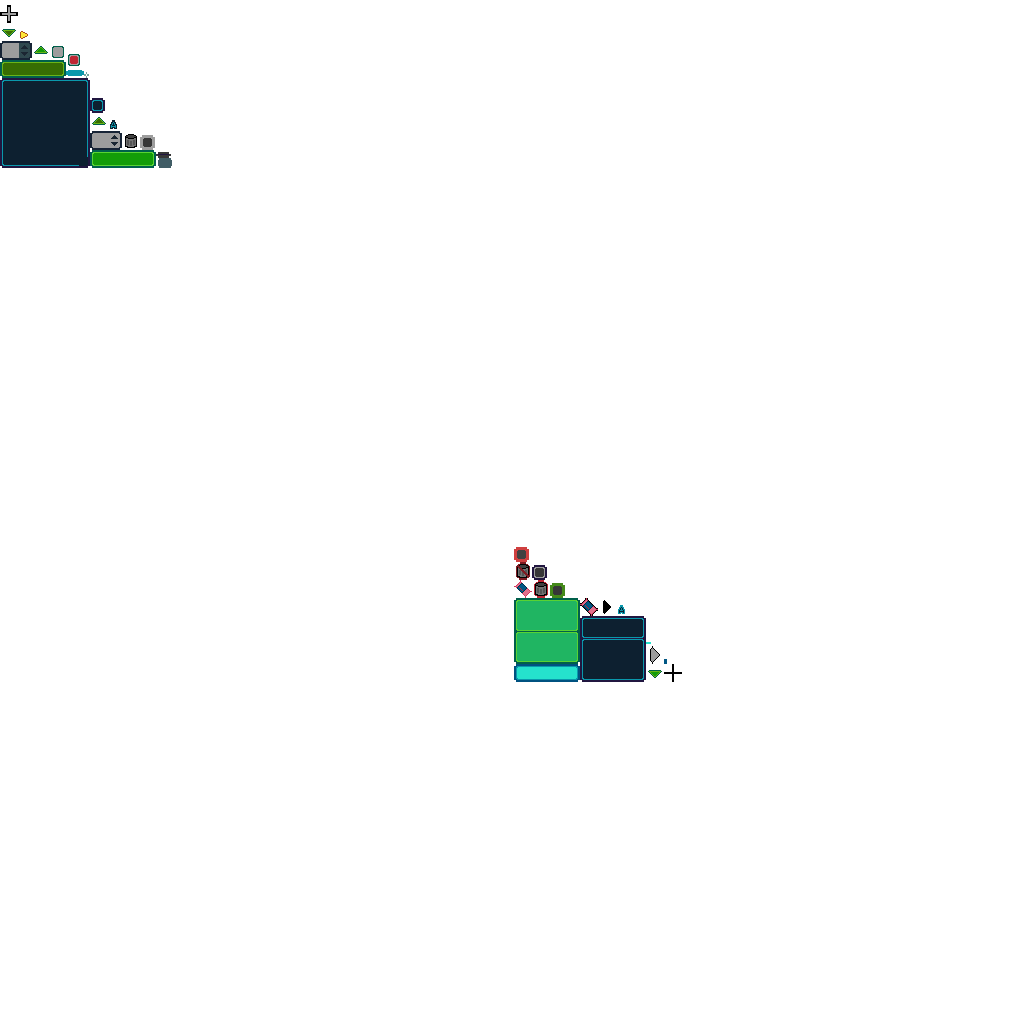
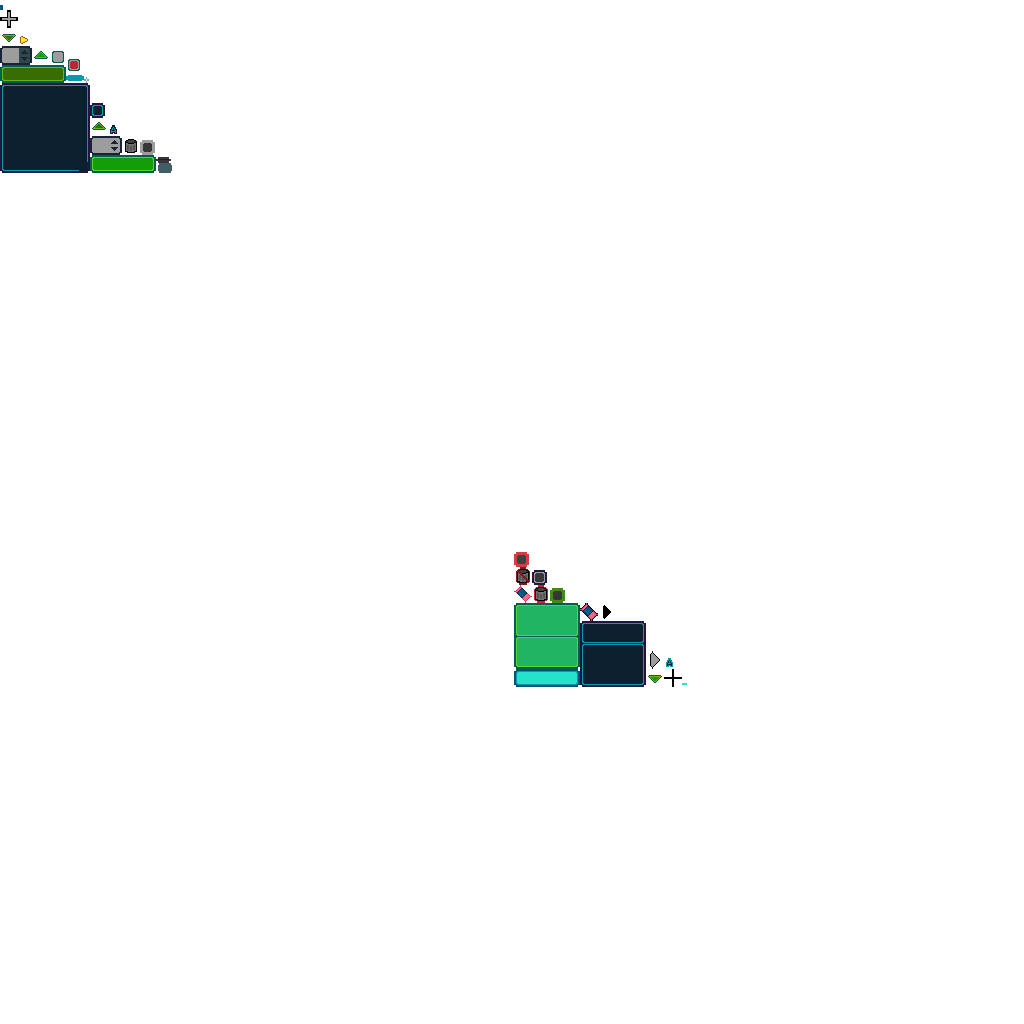
Editor Overhaul
Added Copy+Paste to editor
Added Prefabs to editor
Fixed Dragging Object Bug
Added Ctrl-A for objects
Slightly sped up Saving TkMaps

Changed region(s): [[0.5, 0.5312, 0.6562, 0.6875], [0.0, 0.0938, 0.1562, 0.1875], [0.0, 0.0, 0.0938, 0.0938]]

diff --git a/core/src/com/thecubecast/reengine/gamestates/EditorState.java b/core/src/com/thecubecast/reengine/gamestates/EditorState.java
@@ -20,6 +20,7 @@ import com.badlogic.gdx.scenes.scene2d.Stage;
 import com.badlogic.gdx.scenes.scene2d.ui.*;
 import com.badlogic.gdx.scenes.scene2d.utils.ChangeListener;
 import com.badlogic.gdx.scenes.scene2d.utils.ClickListener;
+import com.badlogic.gdx.scenes.scene2d.utils.Drawable;
 import com.badlogic.gdx.scenes.scene2d.utils.TextureRegionDrawable;
 import com.badlogic.gdx.utils.viewport.FitViewport;
 import com.google.gson.JsonArray;
@@ -62,6 +63,8 @@ public class EditorState extends GameState {
     }
 
     private selection selected = selection.None;
+
+    private Interactable Prefab = null;
 
     private boolean SelectionDragging = false;
     private Vector2[] SelectedArea;
@@ -174,7 +177,7 @@ public class EditorState extends GameState {
             if (selected.equals(selection.Object)) {
                 if (Entities.get(i).getHitbox().contains(new Vector3(pos.x, pos.y, 2))) {
                     //Entities.get(i).setDebugView(true);
-                    if (SelectedArea == null && Gdx.input.isTouched() && Gdx.input.isButtonPressed(Input.Buttons.LEFT)) {
+                    if (SelectedArea == null && Gdx.input.isTouched() && Gdx.input.isButtonPressed(Input.Buttons.LEFT) && Prefab == null && !DraggingObject) {
                         if (Gdx.input.isKeyPressed(Input.Keys.CONTROL_LEFT)) {
                             SelectedObjects.add(Entities.get(i));
                             Entities.get(i).setDebugView(true);
@@ -350,6 +353,12 @@ public class EditorState extends GameState {
         //Draws things on the screen, and not the world positions
         g.setProjectionMatrix(GuiCam.combined);
         g.begin();
+        if (Prefab != null) {
+            Vector3 pos312 = new Vector3(Gdx.input.getX(), Gdx.input.getY(), 0);
+            GuiCam.unproject(pos312);
+            Prefab.setPosition(pos312.x - (Prefab.getSize().x/2),pos312.y - (Prefab.getSize().y/2),0);
+            Prefab.draw(g, Time);
+        }
         g.end();
 
         UIStage.getViewport().update(gsm.UIWidth, gsm.UIHeight, true);
@@ -368,19 +377,26 @@ public class EditorState extends GameState {
             SaveMap(SaveNameText);
         }
 
+        if (selected.equals(selection.Object) && Prefab == null && Gdx.input.isKeyPressed(Input.Keys.CONTROL_LEFT) && Gdx.input.isKeyJustPressed(Input.Keys.A)) {
+            SelectedObjects.clear();
+            SelectedObjects.addAll(Entities);
+
+            for (int i = 0; i < SelectedObjects.size(); i++) {
+                SelectedObjects.get(i).setDebugView(true);
+            }
+        }
+
         if (Gdx.input.isKeyPressed(Input.Keys.CONTROL_LEFT) && Gdx.input.isKeyJustPressed(Input.Keys.C)) {
-            System.out.println("Copied");
-            //Copied_Objects.clear();
-            //Copied_Objects.addAll(SelectedObjects);
+            //System.out.println("Copied");
+            Copied_Objects.clear();
+            Copied_Objects.addAll(SelectedObjects);
         }
 
         if (Gdx.input.isKeyPressed(Input.Keys.CONTROL_LEFT) && Gdx.input.isKeyJustPressed(Input.Keys.V)) {
-            System.out.println("Pasted");
-            /*
-            //Get the middle of the screen position in the world coords
-            Vector3 camMiddle = new Vector3(camera.position.x + camera.viewportWidth, camera.position.y + camera.viewportHeight, 0);
+            //System.out.println("Pasted");
 
-            System.out.println(camMiddle);
+            //Get the middle of the screen position in the world coords
+            Vector3 camMiddle = new Vector3(camera.position.x, camera.position.y, 0);
 
             //calculate the average location of all the copied entities
             Vector3 AveragePos = new Vector3();
@@ -391,34 +407,34 @@ public class EditorState extends GameState {
             AveragePos.x = AveragePos.x/Copied_Objects.size();
             AveragePos.y = AveragePos.y/Copied_Objects.size();
             AveragePos.z = AveragePos.z/Copied_Objects.size();
-            System.out.println(AveragePos);
 
             //Calculate offset
             camMiddle.sub(AveragePos);
-            System.out.println(camMiddle);
 
             //Add the change from average location of copied, to location of middle screen
             for (int i = 0; i < Copied_Objects.size(); i++) {
-                WorldObject temp = Copied_Objects.get(i).getClass().newInstance();
+                Interactable temp = ((Interactable)Copied_Objects.get(i)).CreateNew();
 
                 temp.setPosition(temp.getPosition().x + camMiddle.x, temp.getPosition().y + camMiddle.y, AveragePos.z);
                 Entities.add(temp);
                 SelectedObjects.add(temp);
                 temp.setDebugView(true);
-            }*/
+            }
         }
 
         if (Gdx.input.isKeyJustPressed(Input.Keys.PLUS) || Gdx.input.isKeyJustPressed(Input.Keys.EQUALS) && UIStage.getKeyboardFocus() == null) {
             if (!OverHud)
                 gsm.setWorldScale(gsm.Scale + 1);
-            System.out.println(gsm.Scale);
+            if (gsm.Debug)
+                System.out.println(gsm.Scale);
         }
         if (Gdx.input.isKeyJustPressed(Input.Keys.MINUS) && UIStage.getKeyboardFocus() == null) {
             if (!OverHud) {
                 if (gsm.Scale - 1 > 0)
                     gsm.setWorldScale(gsm.Scale - 1);
             }
-            System.out.println(gsm.Scale);
+            if (gsm.Debug)
+                System.out.println(gsm.Scale);
         }
 
         if (Gdx.input.isKeyJustPressed(Input.Keys.FORWARD_DEL) || Gdx.input.isKeyJustPressed(Input.Keys.DEL) && UIStage.getKeyboardFocus() == null) {
@@ -427,6 +443,22 @@ public class EditorState extends GameState {
                     Entities.remove(SelectedObjects.get(i));
                 }
                 SelectedObjects.clear();
+            }
+        }
+
+        if (Gdx.input.justTouched() && Gdx.input.isButtonPressed(Input.Buttons.LEFT)) { //KeyHit
+            Vector3 pos = new Vector3(Gdx.input.getX(), Gdx.input.getY(), 0);
+            camera.unproject(pos);
+
+            if (!OverHud) {
+                if (selected.equals(selection.Object)) {
+                    if (Prefab != null) {
+                        Vector3 pos312 = new Vector3(Gdx.input.getX(), Gdx.input.getY(), 0);
+                        camera.unproject(pos312);
+                        Prefab.setPosition(pos312.x - (Prefab.getSize().x / 2), pos312.y - (Prefab.getSize().y / 2), 0);
+                        Entities.add(Prefab.CreateNew());
+                    }
+                }
             }
         }
 
@@ -453,40 +485,40 @@ public class EditorState extends GameState {
                     } else {
                         tempshitgiggle.ClearCollision(((int) pos.x / 16), ((int) pos.y / 16));
                     }
+                } else if (selected.equals(selection.Object) && Prefab == null) {
+                    if (SelectionDragging && SelectedObjects.size() > 0) {
+                        if (SelectedObjects.get(0).getHitbox().contains(new Vector3(pos.x, pos.y, 2)) && SelectedArea == null) {
+                            //This is where your gonna move them around
+                            if (!DraggingObject) {
+                                draggingOffset[0] = (int) SelectedObjects.get(0).getPosition().x - (int) pos.x;
+                                draggingOffset[1] = (int) SelectedObjects.get(0).getPosition().y - (int) pos.y;
+                            }
+                            DraggingObject = true;
+
+                        }
+                    }
+
+                    if (DraggingObject) {
+                        for (int i = 0; i < SelectedObjects.size(); i++) {
+                            SelectedObjects.get(i).setPosition(pos.x + draggingOffset[0], pos.y + draggingOffset[1], SelectedObjects.get(i).getPosition().z);
+                            HiddenButtonTriggeresLoading.init(0,0);
+                        }
+                    }
+
+                    if (SelectionDragging && !DraggingObject) {
+
+                        if (SelectedArea == null) {
+                            SelectedArea = new Vector2[]{new Vector2(Gdx.input.getX(), Gdx.input.getY()), new Vector2(0, 0)};
+                        }
+
+                        if (SelectedArea != null) {
+                            SelectedArea[1].set(Gdx.input.getX(), Gdx.input.getY());
+                        }
+                    } else {
+                        SelectedArea = null;
+                    }
                 } else if (selected.equals(selection.None)) {
 
-                }
-
-                if (SelectionDragging && SelectedObjects.size() > 0) {
-                    if (SelectedObjects.get(0).getHitbox().contains(new Vector3(pos.x, pos.y, 2)) && SelectedArea == null) {
-                        //This is where your gonna move them around
-                        if (!DraggingObject) {
-                            draggingOffset[0] = (int) SelectedObjects.get(0).getPosition().x - (int) pos.x;
-                            draggingOffset[1] = (int) SelectedObjects.get(0).getPosition().y - (int) pos.y;
-                        }
-                        DraggingObject = true;
-
-                    }
-                }
-
-                if (DraggingObject) {
-                    for (int i = 0; i < SelectedObjects.size(); i++) {
-                        SelectedObjects.get(i).setPosition(pos.x + draggingOffset[0], pos.y + draggingOffset[1], SelectedObjects.get(i).getPosition().z);
-                        HiddenButtonTriggeresLoading.init(0,0);
-                    }
-                }
-
-                if (SelectionDragging && !DraggingObject) {
-
-                    if (SelectedArea == null) {
-                        SelectedArea = new Vector2[]{new Vector2(Gdx.input.getX(), Gdx.input.getY()), new Vector2(0, 0)};
-                    }
-
-                    if (SelectedArea != null) {
-                        SelectedArea[1].set(Gdx.input.getX(), Gdx.input.getY());
-                    }
-                } else {
-                    SelectedArea = null;
                 }
             }
 
@@ -521,7 +553,13 @@ public class EditorState extends GameState {
         if (Gdx.input.isKeyJustPressed(Input.Keys.ESCAPE)) {
             if (UIStage.getKeyboardFocus() != null) {
                 UIStage.setKeyboardFocus(null);
-            } else {
+            } else if (Prefab != null) {
+                if (!OverHud) {
+                    if (selected.equals(selection.Object)) {
+                        Prefab = null;
+                    }
+                }
+            }else {
                 if (gsm.UI.Visible) {
                     gsm.UI.setVisable(!gsm.UI.Visible);
                     UIStage.setViewport(new FitViewport(gsm.UIWidth, gsm.UIHeight));
@@ -921,22 +959,79 @@ public class EditorState extends GameState {
             JsonParser jsonReaderthing = new JsonParser();
             JsonObject MapObject = jsonReaderthing.parse(Gdx.files.internal("Saves/" + gsm.SaveSelected + ".ecube").readString()).getAsJsonObject();
             JsonArray MapPrefabs = MapObject.getAsJsonArray("Objects");
-            System.out.println("Size: " + MapPrefabs.size());
+            //System.out.println("Size: " + MapPrefabs.size());
 
-            for (int i = 0; i < MapPrefabs.size(); i++) {
+            for (int i = 1; i < MapPrefabs.size()+1; i++) {
 
                 int tempi = i - 1;
-                JsonObject temp = MapPrefabs.get(i).getAsJsonObject();
-                ImageButton tempimage = new ImageButton(new TextureRegionDrawable(new TextureRegion(new Texture(Gdx.files.internal(temp.get("TexLocation").getAsString())))));
+                JsonObject tempObject = MapPrefabs.get(tempi).getAsJsonObject();
+                ImageButton tempimage = new ImageButton(new TextureRegionDrawable(new TextureRegion(new Texture(Gdx.files.internal(tempObject.get("TexLocation").getAsString())))));
                 tempimage.addListener(new ClickListener() {
                     @Override
                     public void clicked(InputEvent event, float x, float y) {
-                        //TileIDSelected = tempi;
+
+                        String Name = tempObject.get("Name").getAsString();
+                        String Description = tempObject.get("Description").getAsString();
+                        int W = tempObject.get("Width").getAsInt();
+                        int H = tempObject.get("Height").getAsInt();
+                        int D = tempObject.get("Depth").getAsInt();
+                        int OffsetX = tempObject.get("WidthOffset").getAsInt();
+                        int OffsetY = tempObject.get("HeightOffset").getAsInt();
+                        int OffsetZ = tempObject.get("DepthOffset").getAsInt();
+                        String tempImgLoc = tempObject.get("TexLocation").getAsString();
+                        String RawEvents = tempObject.get("Event").getAsString();
+                        Trigger.TriggerType TriggerType = Trigger.TriggerType.None;
+                        WorldObject.type Type;
+                        boolean Collidable = false;
+                        if (tempObject.get("Physics").getAsString().equals("Static")) {
+                            Type = WorldObject.type.Static;
+                            if (tempObject.get("Collidable").getAsBoolean())
+                                Collidable = true;
+                        } else if (tempObject.get("Physics").getAsString().equals("Dynamic")) {
+                            Type = WorldObject.type.Dynamic;
+                        } else {
+                            Type = WorldObject.type.Static;
+                        }
+
+                        if (tempObject.get("TriggerType").getAsString().equals("OnEntry")) {
+                            TriggerType = Trigger.TriggerType.OnEntry;
+                        } else if (tempObject.get("TriggerType").getAsString().equals("OnTrigger")) {
+                            TriggerType = Trigger.TriggerType.OnTrigger;
+                        } else if (tempObject.get("TriggerType").getAsString().equals("OnExit")) {
+                            TriggerType = Trigger.TriggerType.OnExit;
+                        } else if (tempObject.get("TriggerType").getAsString().equals("OnInteract")) {
+                            TriggerType = Trigger.TriggerType.OnInteract;
+                        } else if (tempObject.get("TriggerType").getAsString().equals("OnClick")) {
+                            TriggerType = Trigger.TriggerType.OnClick;
+                        } else if (tempObject.get("TriggerType").getAsString().equals("OnAttack")) {
+                            TriggerType = Trigger.TriggerType.OnAttack;
+                        }
+
+                        Interactable tempObj = new Interactable(0,0,0, new Vector3(W, H, D), Type, Collidable, RawEvents, TriggerType);
+                        tempObj.setTexLocation(tempImgLoc);
+                        tempObj.Name = Name;
+                        tempObj.Description = Description;
+
+                        tempObj.setHitboxOffset(new Vector3(OffsetX, OffsetY, OffsetZ));
+
+                        Prefab = tempObj;
                     }
                 });
-                ObjectEditorPrefab.add(tempimage);
+                Table Container = new Table(skin) {
+                    @Override
+                    public void act(float delta) {
+                        super.act(delta);
+                        if (tempimage.isOver()) {
+                            this.setBackground("Outline");
+                        } else {
+                            this.setBackground("Blank");
+                        }
+                    }
+                };
+                Container.add(tempimage).pad(-2);
+                ObjectEditorPrefab.add(Container);
                 if (i % 6 == 0) {
-                    TilesList.row();
+                    ObjectEditorPrefab.row();
                 }
             }
         }
@@ -1333,6 +1428,7 @@ public class EditorState extends GameState {
         BoxStuff.add(RecipeScroll).height(100).padTop(5);
 
         Table Title = new Table(skin);
+        //Title.add(new Label("Objects", skin));
         Title.add(Hide);
         Title.setBackground("Window_red");
 
@@ -1393,6 +1489,8 @@ public class EditorState extends GameState {
         Path path = Paths.get("Saves", Savename + ".cube");
         ArrayList<String> lines = new ArrayList<String>();
         lines.add(tempshitgiggle.SerializeMap(Entities));
+
+        System.out.println("Serialization Took " + ((System.nanoTime() - Started)/1000000000.0) + " seconds to complete");
 
         try {
             Files.deleteIfExists(path);

diff --git a/core/src/com/thecubecast/reengine/data/tkmap/TkMap.java b/core/src/com/thecubecast/reengine/data/tkmap/TkMap.java
@@ -424,13 +424,13 @@ public class TkMap {
         for (int y = this.getHeight() - 1; y >= 0; y--) {
             for (int x = 0; x < this.getWidth(); x++) {
                 if (x == 0) {
-                    GroundTiles += "" + this.Ground[x][y];
+                    GroundTiles = GroundTiles.concat("" + this.Ground[x][y]);
                 } else {
-                    GroundTiles += "," + this.Ground[x][y];
+                    GroundTiles = GroundTiles.concat("," + this.Ground[x][y]);
                 }
             }
             if (y != 0) {
-                GroundTiles += "\n";
+                GroundTiles = GroundTiles.concat("\n");
             }
         }
         GroundLayer.addProperty("text", GroundTiles);
@@ -445,13 +445,13 @@ public class TkMap {
         for (int y = this.getHeight() - 1; y >= 0; y--) {
             for (int x = 0; x < this.getWidth(); x++) {
                 if (x == 0) {
-                    ForegroundTiles += "" + this.Foreground[x][y];
+                    ForegroundTiles = ForegroundTiles.concat("" + this.Foreground[x][y]);
                 } else {
-                    ForegroundTiles += "," + this.Foreground[x][y];
+                    ForegroundTiles =ForegroundTiles.concat("," + this.Foreground[x][y]);
                 }
             }
             if (y != 0) {
-                ForegroundTiles += "\n";
+                ForegroundTiles =ForegroundTiles.concat("\n");
             }
         }
         ForegroundLayer.addProperty("text", ForegroundTiles);
@@ -465,13 +465,13 @@ public class TkMap {
         for (int y = this.getHeight() - 1; y >= 0; y--) {
             for (int x = 0; x < this.getWidth(); x++) {
                 if (this.Collision[x][y]) {
-                    CollisionTiles += "1";
+                    CollisionTiles = CollisionTiles.concat("1");
                 } else {
-                    CollisionTiles += "0";
+                    CollisionTiles = CollisionTiles.concat("0");
                 }
             }
             if (y != 0) {
-                CollisionTiles += "\n";
+                CollisionTiles = CollisionTiles.concat("\n");
             }
         }
         CollisionLayer.addProperty("text", CollisionTiles);

diff --git a/core/src/com/thecubecast/reengine/worldobjects/Interactable.java b/core/src/com/thecubecast/reengine/worldobjects/Interactable.java
@@ -87,4 +87,16 @@ public class Interactable extends Trigger {
         else
             Image = new Texture(Gdx.files.internal(TexLocation));
     }
+
+    public Interactable CreateNew() {
+
+        Interactable tempObj = new Interactable((int) this.getPosition().x, (int) this.getPosition().y, (int) this.getPosition().z, this.getSize(), this.getState(), this.isCollidable(), this.RawCommands, this.getActivationType());
+        tempObj.setTexLocation(this.getTexLocation());
+        tempObj.Name = this.Name;
+        tempObj.Description = this.Description;
+
+        tempObj.setHitboxOffset(this.getHitboxOffset());
+
+        return tempObj;
+    }
 }
